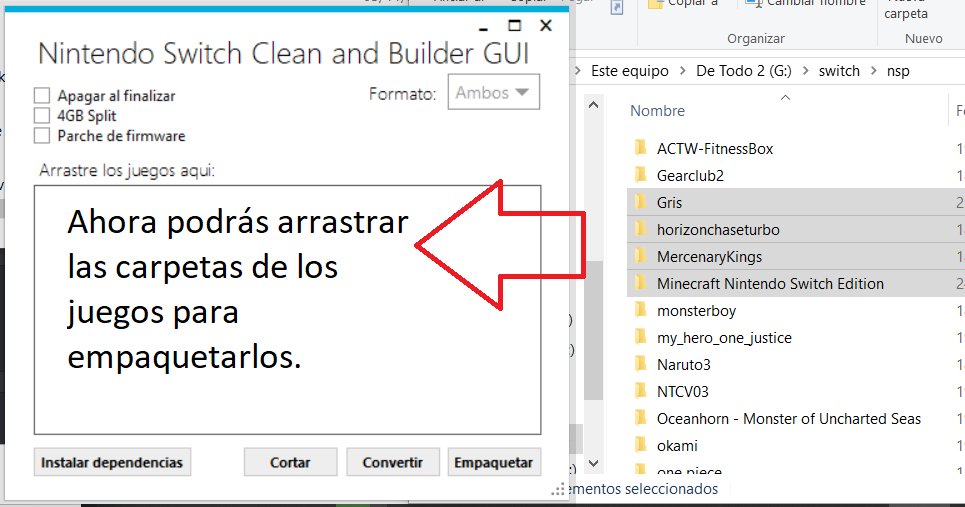
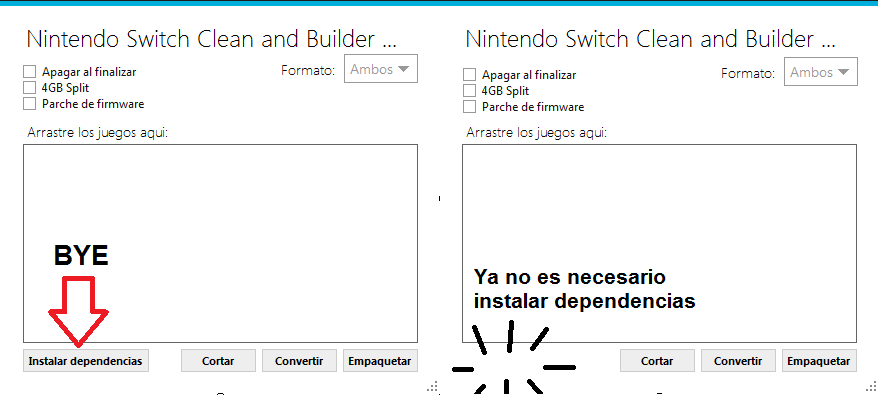
Se quita el boton de dependencias

diff --git a/source/Properties/Resources.Designer.cs b/source/Properties/Resources.Designer.cs
@@ -19,7 +19,7 @@ namespace NSCB_GUI.Properties {
     // a través de una herramienta como ResGen o Visual Studio.
     // Para agregar o quitar un miembro, edite el archivo .ResX y, a continuación, vuelva a ejecutar ResGen
     // con la opción /str o recompile su proyecto de VS.
-    [global::System.CodeDom.Compiler.GeneratedCodeAttribute("System.Resources.Tools.StronglyTypedResourceBuilder", "4.0.0.0")]
+    [global::System.CodeDom.Compiler.GeneratedCodeAttribute("System.Resources.Tools.StronglyTypedResourceBuilder", "15.0.0.0")]
     [global::System.Diagnostics.DebuggerNonUserCodeAttribute()]
     [global::System.Runtime.CompilerServices.CompilerGeneratedAttribute()]
     internal class Resources {
@@ -76,46 +76,6 @@ namespace NSCB_GUI.Properties {
         internal static System.Drawing.Bitmap Novedad_1 {
             get {
                 object obj = ResourceManager.GetObject("Novedad_1", resourceCulture);
-                return ((System.Drawing.Bitmap)(obj));
-            }
-        }
-        
-        /// <summary>
-        ///   Busca un recurso adaptado de tipo System.Drawing.Bitmap.
-        /// </summary>
-        internal static System.Drawing.Bitmap Novedad_2 {
-            get {
-                object obj = ResourceManager.GetObject("Novedad_2", resourceCulture);
-                return ((System.Drawing.Bitmap)(obj));
-            }
-        }
-        
-        /// <summary>
-        ///   Busca un recurso adaptado de tipo System.Drawing.Bitmap.
-        /// </summary>
-        internal static System.Drawing.Bitmap Novedad_3 {
-            get {
-                object obj = ResourceManager.GetObject("Novedad_3", resourceCulture);
-                return ((System.Drawing.Bitmap)(obj));
-            }
-        }
-        
-        /// <summary>
-        ///   Busca un recurso adaptado de tipo System.Drawing.Bitmap.
-        /// </summary>
-        internal static System.Drawing.Bitmap Novedad_4 {
-            get {
-                object obj = ResourceManager.GetObject("Novedad_4", resourceCulture);
-                return ((System.Drawing.Bitmap)(obj));
-            }
-        }
-        
-        /// <summary>
-        ///   Busca un recurso adaptado de tipo System.Drawing.Bitmap.
-        /// </summary>
-        internal static System.Drawing.Bitmap Novedad_5 {
-            get {
-                object obj = ResourceManager.GetObject("Novedad_5", resourceCulture);
                 return ((System.Drawing.Bitmap)(obj));
             }
         }

diff --git a/source/Formularios/Form1.Designer.cs b/source/Formularios/Form1.Designer.cs
@@ -34,7 +34,6 @@
             this.botonEmpaquetar = new MetroFramework.Controls.MetroButton();
             this.panelJuegos = new MetroFramework.Controls.MetroPanel();
             this.toltipArrastre = new MetroFramework.Components.MetroToolTip();
-            this.btnDependencias = new MetroFramework.Controls.MetroButton();
             this.comboBox1 = new MetroFramework.Controls.MetroComboBox();
             this.cbFirware = new MetroFramework.Controls.MetroComboBox();
             this.cbApagar = new MetroFramework.Controls.MetroCheckBox();
@@ -102,17 +101,6 @@
             this.toltipArrastre.Style = MetroFramework.MetroColorStyle.Blue;
             this.toltipArrastre.StyleManager = null;
             this.toltipArrastre.Theme = MetroFramework.MetroThemeStyle.Light;
-            // 
-            // btnDependencias
-            // 
-            this.btnDependencias.Location = new System.Drawing.Point(23, 348);
-            this.btnDependencias.Name = "btnDependencias";
-            this.btnDependencias.Size = new System.Drawing.Size(126, 23);
-            this.btnDependencias.TabIndex = 0;
-            this.btnDependencias.Text = "Instalar dependencias";
-            this.toltipArrastre.SetToolTip(this.btnDependencias, "Instala las dependencias necesarias\r\npara las conversiones.");
-            this.btnDependencias.UseSelectable = true;
-            this.btnDependencias.Click += new System.EventHandler(this.btnDependencias_Click);
             // 
             // comboBox1
             // 
@@ -231,7 +219,6 @@
             this.Controls.Add(this.cbParchar);
             this.Controls.Add(this.comboBox1);
             this.Controls.Add(this.metroLabel1);
-            this.Controls.Add(this.btnDependencias);
             this.Controls.Add(this.panelJuegos);
             this.Controls.Add(this.botonEmpaquetar);
             this.Controls.Add(this.botonConvertir);
@@ -251,7 +238,6 @@
         private MetroFramework.Controls.MetroButton botonEmpaquetar;
         private MetroFramework.Controls.MetroPanel panelJuegos;
         private MetroFramework.Components.MetroToolTip toltipArrastre;
-        private MetroFramework.Controls.MetroButton btnDependencias;
         private MetroFramework.Controls.MetroLabel metroLabel1;
         private MetroFramework.Controls.MetroComboBox comboBox1;
         private MetroFramework.Controls.MetroCheckBox cbParchar;

diff --git a/source/Formularios/NovedadesForm.cs b/source/Formularios/NovedadesForm.cs
@@ -23,21 +23,21 @@ namespace NSCB_GUI
                 case 1:
                     pbNovedad.Image = Properties.Resources.Novedad_1;
                     break;
-                case 2:
-                    pbNovedad.Image = Properties.Resources.Novedad_2;
-                    break;
-                case 3:
-                    pbNovedad.Image = Properties.Resources.Novedad_3;
-                    break;
-                case 4:
-                    pbNovedad.Image = Properties.Resources.Novedad_4;
-                    break;
-                case 5:
-                    pbNovedad.Image = Properties.Resources.Novedad_5;
-                    break;
-                case 6:
-                    pbNovedad.Image = Properties.Resources.Novedad_6;
-                    break;
+                //case 2:
+                //    pbNovedad.Image = Properties.Resources.Novedad_2;
+                //    break;
+                //case 3:
+                //    pbNovedad.Image = Properties.Resources.Novedad_3;
+                //    break;
+                //case 4:
+                //    pbNovedad.Image = Properties.Resources.Novedad_4;
+                //    break;
+                //case 5:
+                //    pbNovedad.Image = Properties.Resources.Novedad_5;
+                //    break;
+                //case 6:
+                //    pbNovedad.Image = Properties.Resources.Novedad_6;
+                //    break;
                 default:
                     this.Close();
                     break;

diff --git a/source/Formularios/Form1.cs b/source/Formularios/Form1.cs
@@ -37,7 +37,6 @@ namespace NSCB_GUI
             botonEmpaquetar.Location = new Point(this.Width - 97, this.Height - 42);
             botonConvertir.Location = new Point(this.Width - 178, botonEmpaquetar.Location.Y);
             btnCortar.Location = new Point(this.Width - 260, botonEmpaquetar.Location.Y);
-            btnDependencias.Location = new Point(btnDependencias.Location.X, botonEmpaquetar.Location.Y);
             metroLabel1.Location = new Point(this.Width - 164, metroLabel1.Location.Y);
             comboBox1.Location = new Point(this.Width - 97, comboBox1.Location.Y);
             metroLabel2.Location = new Point(this.Width - 273, metroLabel2.Location.Y);
@@ -277,15 +276,6 @@ namespace NSCB_GUI
                     panelJuegos.Controls.Clear();
                 }
             }
-        }
-
-        private void btnDependencias_Click(object sender, EventArgs e)
-        {
-            Process proeso = new Process();
-            proeso.StartInfo.FileName = "install_dependencies.bat";
-            proeso.EnableRaisingEvents = true;
-            proeso.Start();
-            proeso.WaitForExit();
         }
 
         private void cbParchar_CheckedChanged(object sender, EventArgs e)
